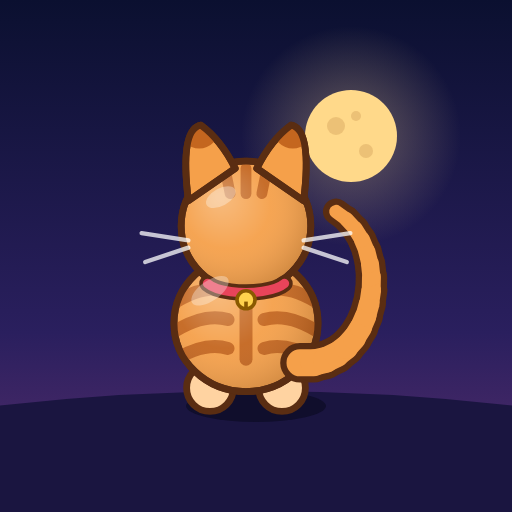
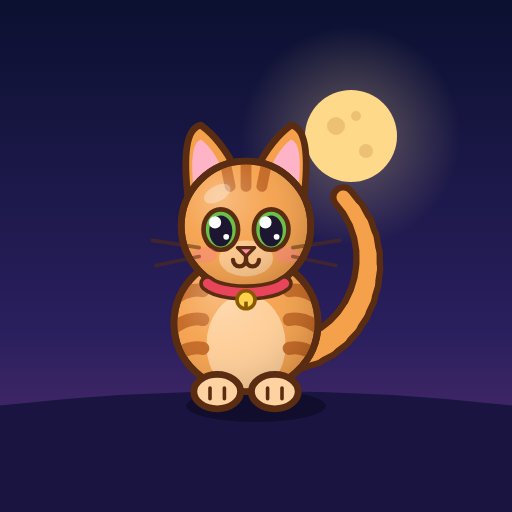
Chats de face dans les menus, queue depuis le milieu, pots plus petits
- Nouveau dessin du chat de face (accueil, portrait, boutique, album,
  image à partager, icône) : grands yeux qui clignent, oreilles roses,
  nez, bouche en « w », joues, ventre clair, pattes avant ; queue derrière
  le corps qui part du milieu. En course, le chat reste de dos.
- Déguisements adaptés à la vue de face (capes derrière le chat, col de
  marin seulement de dos)
- En course, la queue part du milieu du bas du dos
- Pots de fleurs un peu plus petits

Claude-Session: https://claude.ai/code/session_01JdYRHE65jz55i9QTGZhUWS

Changed region(s): [[0.2812, 0.25, 0.7812, 0.8125]]

diff --git a/index.html b/index.html
@@ -2320,7 +2320,7 @@
       if (o.type === 'chimney' && cat.y < 145) return die('chimney');
       if (o.type === 'linge' && cat.y + h > 44 && cat.y < 150) return die('linge');
       if (o.type === 'clim' && cat.y < 66) return die('clim');
-      if (o.type === 'pot' && cat.y < 38) return die('pot');
+      if (o.type === 'pot' && cat.y < 33) return die('pot');
       if (o.type === 'trou' && cat.y < 3 && o.z < -10 && o.z + o.d > 10) return die('trou');
       if (o.type === 'lucarne') {
         const a = lucarneOpen(o);
@@ -2639,7 +2639,7 @@
     // A potted plant sliding toward the cat, rocking from side to side
     ctx.save();
     ctx.translate(g.x, g.y);
-    ctx.scale(s, s);
+    ctx.scale(s * 0.85, s * 0.85);
     ctx.rotate(o.roll ? Math.sin(time * 10 + o.seed) * 0.16 : 0);
     ctx.lineJoin = 'round'; ctx.lineCap = 'round';
     // Stems and leaves
@@ -2927,6 +2927,20 @@
     c.closePath();
   }
 
+  // Tapered tail along a cubic curve P, with a light tip
+  function drawTail(c, sk, P) {
+    const at = u => { const v = 1 - u; return [0, 1].map(k => v * v * v * P[0][k] + 3 * v * v * u * P[1][k] + 3 * v * u * u * P[2][k] + u * u * u * P[3][k]); };
+    const pts = []; for (let i = 0; i <= 16; i++) pts.push(at(i / 16));
+    const pass = (extra, colorAt) => {
+      for (let i = 0; i < 16; i++) {
+        c.strokeStyle = colorAt(i / 16); c.lineWidth = 7.5 - 4 * (i / 16) + extra;
+        c.beginPath(); c.moveTo(pts[i][0], pts[i][1]); c.lineTo(pts[i + 1][0], pts[i + 1][1]); c.stroke();
+      }
+    };
+    pass(3.5, () => sk.outline);
+    pass(0, u => (u > 0.78 ? sk.tailTip || sk.tail || sk.fur : sk.tail || sk.fur));
+  }
+
   // o: { ph: run phase, air, still, t: time, wet, hat }
   function drawCatRun(c, sk, o) {
     const ph = o.ph, air = o.air;
@@ -2980,21 +2994,12 @@
     shadeShape(c, sk, body, by, 20);
     if (cos) drawCostume(c, cos, 'body', { by, hy: -50 - bob, bob, t: o.t, air });
 
-    // Tail: it leaves from the side of the hip, sweeps out and curls back
-    // like a question mark, getting thinner toward the tip
+    // Tail: it leaves from the middle of the lower back, sweeps out to the side
+    // and curls back like a question mark, getting thinner toward the tip
     const sway = Math.sin(o.t * 6) * 5;
-    const tipX = 25 + sway, tipY = (air ? -60 : -54) - bob;
-    const P = [[15, -12 - bob], [36, -10 - bob], [42 + sway * 0.5, -44 - bob], [tipX, tipY]];
-    const at = u => { const v = 1 - u; return [0, 1].map(k => v * v * v * P[0][k] + 3 * v * v * u * P[1][k] + 3 * v * u * u * P[2][k] + u * u * u * P[3][k]); };
-    const pts = []; for (let i = 0; i <= 16; i++) pts.push(at(i / 16));
-    const tailPass = (extra, colorAt) => {
-      for (let i = 0; i < 16; i++) {
-        c.strokeStyle = colorAt(i / 16); c.lineWidth = 7.5 - 4 * (i / 16) + extra;
-        c.beginPath(); c.moveTo(pts[i][0], pts[i][1]); c.lineTo(pts[i + 1][0], pts[i + 1][1]); c.stroke();
-      }
-    };
-    tailPass(3.5, () => sk.outline);
-    tailPass(0, u => (u > 0.78 ? sk.tailTip || sk.tail || sk.fur : sk.tail || sk.fur));
+    const tipX = 27 + sway, tipY = (air ? -60 : -54) - bob;
+    const P = [[0, -9 - bob], [26, -2 - bob], [44 + sway * 0.5, -36 - bob], [tipX, tipY]];
+    drawTail(c, sk, P);
     if (cos) drawCostume(c, cos, 'tail', { by, hy: -50 - bob, bob, t: o.t, air, tipX, tipY });
 
     const hy = -50 - bob;
@@ -3062,6 +3067,142 @@
         c.beginPath(); c.ellipse(dx, -30 + dy, 1.8, 3, 0, 0, TAU); c.fill();
       }
     }
+  }
+
+  // ---------- The cat seen from the front, for the menus ----------
+  // Same frame as drawCatRun: feet at y = 0, body around y = -23, head around y = -50.
+  const EYES = { noir: '#e8c23a', tuxedo: '#e8c23a', siamois: '#4a8ae0', blanc: '#4a8ae0', chartreux: '#e8902a', nuit: '#ffd34d', arcenciel: '#b06aff' };
+  function drawCatFront(c, sk, o) {
+    const t = o.t || 0;
+    c.lineJoin = 'round';
+    c.lineCap = 'round';
+    const cos = o.costume && o.costume !== 'none' ? o.costume : null;
+    const by = -23, hy = -50;
+    if (cos) drawCostume(c, cos, 'back', { by, hy, bob: 0, t, air: false, front: true });
+
+    // Tail behind the body, from the middle, curling up on the side
+    const sway = Math.sin(t * 2.4) * 4;
+    const tipX = 27 + sway, tipY = -58;
+    drawTail(c, sk, [[0, -16], [28, -6], [44 + sway * 0.5, -40], [tipX, tipY]]);
+    if (cos) drawCostume(c, cos, 'tail', { by, hy, bob: 0, t, air: false, front: true, tipX, tipY });
+
+    // Body with a light belly
+    const body = () => { c.beginPath(); c.ellipse(0, by, 20, 19, 0, 0, TAU); };
+    furShape(c, sk, body, sk.fur, sk.patches);
+    c.save(); body(); c.clip();
+    c.fillStyle = sk.paw; c.globalAlpha = 0.85;
+    c.beginPath(); c.ellipse(0, by + 6, 11, 14, 0, 0, TAU); c.fill();
+    c.globalAlpha = 1;
+    if (sk.stripe) {
+      c.lineWidth = 3.6;
+      [-32, -24, -16].forEach((y, i) => {
+        c.strokeStyle = stripeColor(sk, i);
+        for (const sd of [-1, 1]) { c.beginPath(); c.moveTo(sd * 21, y + 3); c.quadraticCurveTo(sd * 16, y - 1, sd * 12, y); c.stroke(); }
+      });
+    }
+    if (sk.shimmer) {
+      const sx = ((t * 45) % 90) - 45;
+      c.fillStyle = 'rgba(255, 255, 255, 0.5)';
+      c.beginPath(); c.moveTo(sx - 2, -46); c.lineTo(sx + 6, -46); c.lineTo(sx - 6, -2); c.lineTo(sx - 14, -2); c.closePath(); c.fill();
+    }
+    if (sk.sparkles) {
+      [[-10, -29], [9, -18], [4, -35], [-5, -13], [12, -30]].forEach(([x, y], i) => {
+        c.globalAlpha = 0.35 + 0.65 * Math.max(0, Math.sin(t * 3 + i * 1.7));
+        drawStar(c, x, y, 2.6, '#fff6c8');
+      });
+      c.globalAlpha = 1;
+    }
+    c.restore();
+    shadeShape(c, sk, body, by, 20);
+
+    // Front paws with little toes
+    for (const sd of [-1, 1]) {
+      c.beginPath(); c.ellipse(sd * 8, -4, 6.5, 4.8, 0, 0, TAU); strokeFill(c, sk, sk.paw);
+      c.strokeStyle = sk.outline; c.lineWidth = 1;
+      for (const dx of [-2, 2]) { c.beginPath(); c.moveTo(sd * 8 + dx, -2); c.lineTo(sd * 8 + dx, -5); c.stroke(); }
+    }
+    if (cos) drawCostume(c, cos, 'body', { by, hy, bob: 0, t, air: false, front: true });
+
+    // Ears, pink inside
+    for (const sd of [-1, 1]) {
+      roundEar(c, sd, hy);
+      strokeFill(c, sk, sk.ear || sk.fur);
+      c.beginPath();
+      c.moveTo(sd * 14.5, hy - 10); c.quadraticCurveTo(sd * 16, hy - 23, sd * 12.5, hy - 24); c.quadraticCurveTo(sd * 8.5, hy - 21, sd * 6, hy - 14); c.closePath();
+      c.fillStyle = '#ffb3c6'; c.fill();
+    }
+
+    // Head
+    const head = () => { c.beginPath(); c.arc(0, hy, 18, 0, TAU); };
+    furShape(c, sk, head, sk.head || sk.fur, sk.headPatches && sk.headPatches.map(([x, y, rx, ry, col]) => [x, hy + y, rx, ry, col]));
+    c.save(); head(); c.clip();
+    if (sk.stripe) {
+      c.lineWidth = 3;
+      [-5.5, 0, 5.5].forEach((sx, i) => {
+        c.strokeStyle = stripeColor(sk, i + 2);
+        c.beginPath(); c.moveTo(sx, hy - 18 + Math.abs(sx) * 0.3); c.lineTo(sx * 0.8, hy - 11); c.stroke();
+      });
+    }
+    // Siamese cats have a dark mask
+    if (sk.id === 'siamois') { c.fillStyle = sk.ear; c.globalAlpha = 0.85; c.beginPath(); c.ellipse(0, hy + 7, 10, 8, 0, 0, TAU); c.fill(); c.globalAlpha = 1; }
+    // Light muzzle
+    c.fillStyle = sk.id === 'siamois' ? 'rgba(255, 255, 255, 0.12)' : sk.paw;
+    c.globalAlpha = 0.7;
+    c.beginPath(); c.ellipse(0, hy + 9, 7.5, 5, 0, 0, TAU); c.fill();
+    c.globalAlpha = 1;
+    c.restore();
+    shadeShape(c, sk, head, hy, 18);
+
+    // Big round eyes that blink now and then
+    const blink = t !== 0 && (t + 0.4) % 3.6 < 0.14;
+    const eye = EYES[sk.id] || '#6cc04a';
+    for (const sd of [-1, 1]) {
+      const ex = sd * 7, ey = hy + 1;
+      if (blink) {
+        c.strokeStyle = sk.outline; c.lineWidth = 1.8;
+        c.beginPath(); c.arc(ex, ey - 1, 4.2, 0.15 * Math.PI, 0.85 * Math.PI); c.stroke();
+        continue;
+      }
+      c.beginPath(); c.ellipse(ex, ey, 4.8, 5.6, 0, 0, TAU);
+      c.fillStyle = eye; c.fill(); c.strokeStyle = sk.outline; c.lineWidth = 1.3; c.stroke();
+      c.fillStyle = '#1d1630';
+      c.beginPath(); c.ellipse(ex, ey + 0.4, 3.2, 4.3, 0, 0, TAU); c.fill();
+      c.fillStyle = '#ffffff';
+      c.beginPath(); c.arc(ex - 1.6, ey - 2, 1.7, 0, TAU); c.fill();
+      c.beginPath(); c.arc(ex + 1.5, ey + 2, 0.8, 0, TAU); c.fill();
+    }
+    // Pink cheeks, nose and a little "w" mouth
+    c.fillStyle = 'rgba(255, 120, 150, 0.35)';
+    for (const sd of [-1, 1]) { c.beginPath(); c.ellipse(sd * 11.5, hy + 8, 3.4, 2.2, 0, 0, TAU); c.fill(); }
+    c.fillStyle = '#ff8fa8'; c.strokeStyle = sk.outline; c.lineWidth = 0.9;
+    c.beginPath(); c.moveTo(-2.4, hy + 6); c.lineTo(2.4, hy + 6); c.lineTo(0, hy + 8.4); c.closePath(); c.fill(); c.stroke();
+    c.lineWidth = 1.2;
+    c.beginPath(); c.moveTo(0, hy + 8.4); c.lineTo(0, hy + 9.4); c.stroke();
+    for (const sd of [-1, 1]) { c.beginPath(); c.arc(sd * 1.8, hy + 9.4, 1.8, 0, Math.PI); c.stroke(); }
+
+    // Whiskers
+    c.strokeStyle = sk.outline; c.globalAlpha = 0.55; c.lineWidth = 1;
+    for (const sd of [-1, 1]) {
+      c.beginPath(); c.moveTo(sd * 13, hy + 6); c.lineTo(sd * 26, hy + 4); c.stroke();
+      c.beginPath(); c.moveTo(sd * 13, hy + 8.5); c.lineTo(sd * 25, hy + 11); c.stroke();
+    }
+    c.globalAlpha = 1;
+
+    // Collar with the bell in front
+    const col = sk.collar || '#e8445a';
+    c.strokeStyle = sk.outline; c.lineWidth = 4.6;
+    c.beginPath(); c.ellipse(0, hy + 14.5, 11.5, 4, 0, 0.12 * Math.PI, 0.88 * Math.PI); c.stroke();
+    c.strokeStyle = col; c.lineWidth = 2.6;
+    c.beginPath(); c.ellipse(0, hy + 14.5, 11.5, 4, 0, 0.12 * Math.PI, 0.88 * Math.PI); c.stroke();
+    c.fillStyle = '#ffd34d'; c.strokeStyle = '#8a5a00'; c.lineWidth = 1;
+    c.beginPath(); c.arc(0, hy + 20.5, 2.5, 0, TAU); c.fill(); c.stroke();
+    c.fillStyle = '#8a5a00'; c.fillRect(-0.5, hy + 21, 1, 1.6);
+
+    c.fillStyle = 'rgba(255, 255, 255, 0.32)';
+    c.beginPath(); c.ellipse(-8, hy - 9, 4, 2.2, -0.5, 0, TAU); c.fill();
+
+    if (cos) drawCostume(c, cos, 'head', { by, hy, bob: 0, t, air: false, front: true });
+    if (o.hat) { c.save(); c.translate(0, hy - 8); drawHat(c, o.hat, t); c.restore(); }
   }
 
   function drawCatBall(c, sk, o) {
@@ -3829,7 +3970,7 @@
       const owns = isFish ? (it.id === 'none' || gold.costumes.includes(it.id)) : SHOP[shopTab].owned().includes(it.id);
       const sk = isCat ? it : currentSkin();
       c.save(); c.setTransform(dpr, 0, 0, dpr, 0, 0); drawAura(c, 38, 44, 38, sk); c.restore();
-      drawCatRun(c, skinPaint(sk, time), { ph: owns ? time * 9 : 0, air: false, still: !owns, t: time, wet: false,
+      drawCatFront(c, skinPaint(sk, time), { still: !owns, t: owns ? time : 0,
         hat: isCat || isFish ? hatId : it.id, costume: isFish ? it.id : currentCostume() });
     }
   }
@@ -4727,7 +4868,7 @@
     ctx.translate(x, y);
     // Gentle breathing
     ctx.scale(k, k * (1 + Math.sin(time * 2.2) * 0.012));
-    drawCatRun(ctx, skinPaint(sk, time), { ph: 0, air: false, still: true, t: time, wet: false, hat: hatId, costume: currentCostume() });
+    drawCatFront(ctx, skinPaint(sk, time), { t: time, hat: hatId, costume: currentCostume() });
     ctx.restore();
     drawHomeAvatar();
   }
@@ -4743,7 +4884,7 @@
     c.clearRect(0, 0, cv.width, cv.height);
     c.translate(cv.width / 2, cv.height + 40);
     c.scale(1.9, 1.9);
-    drawCatRun(c, skinPaint(currentSkin(), time), { ph: 0, air: false, still: true, t: 0, wet: false, hat: hatId });
+    drawCatFront(c, skinPaint(currentSkin(), time), { t: 0, hat: hatId });
   }
 
   // ---------- Profile: cat name, player level, record per cat, story ----------
@@ -4901,11 +5042,11 @@
     c.clearRect(0, 0, 76, 76);
     if (kind === 'costume') {
       c.translate(38, 71); c.scale(0.62, 0.62);
-      drawCatRun(c, SKINS[0], { ph: 0, air: false, still: true, t: 0, wet: false, costume: it.id });
+      drawCatFront(c, SKINS[0], { t: 0, costume: it.id });
     } else if (kind === 'cat') {
       if (has) drawAura(c, 38, 44, 38, it);
       c.translate(38, 71); c.scale(0.7, 0.7);
-      drawCatRun(c, skinPaint(it, 0), { ph: 0, air: false, still: true, t: 0, wet: false });
+      drawCatFront(c, skinPaint(it, 0), { t: 0 });
     } else {
       c.translate(38, 54); c.scale(1.5, 1.5);
       drawHat(c, it.id, 0);
@@ -5198,7 +5339,7 @@
     c.beginPath(); c.ellipse(540, 1250, 120, 30, 0, 0, TAU); c.fill();
     drawAura(c, 540, 1100, 300, currentSkin());
     c.translate(540, 1250); c.scale(4.4, 4.4);
-    drawCatRun(c, skinPaint(currentSkin(), time), { ph: 0, air: false, still: true, t: time, wet: false, hat: hatId, costume: currentCostume() });
+    drawCatFront(c, skinPaint(currentSkin(), time), { t: 0, hat: hatId, costume: currentCostume() });
     c.restore();
     // Text panel
     c.fillStyle = 'rgba(10, 14, 40, 0.72)';
@@ -5546,7 +5687,7 @@
   }
   const COSTUME_DRAW = {
     vampire(c, layer, g) {
-      if (layer !== 'body') return;
+      if (layer !== (g.front ? 'back' : 'body')) return;
       const sw = Math.sin(g.t * 8) * 2;
       c.beginPath();
       c.moveTo(-12, g.hy + 15); c.quadraticCurveTo(-25, g.by - 6, -26, g.by + 18 + sw);
@@ -5559,7 +5700,7 @@
       }
     },
     superchat(c, layer, g) {
-      if (layer !== 'body') return;
+      if (layer !== (g.front ? 'back' : 'body')) return;
       const sw = Math.sin(g.t * 7) * 4;
       c.beginPath();
       c.moveTo(-12, g.hy + 15); c.quadraticCurveTo(-26, g.by, -24 + sw * 0.3, g.by + 22);
@@ -5749,10 +5890,12 @@
       c.fillStyle = '#2f5fd0';
       for (let y = -6; y < 22; y += 6) c.fillRect(-22, g.by + y, 44, 2.6);
       c.restore();
-      c.beginPath(); c.moveTo(-13, g.hy + 14); c.lineTo(13, g.hy + 14); c.lineTo(14, g.by + 1); c.lineTo(-14, g.by + 1); c.closePath();
-      cosShape(c, '#1f3f9a', '#0b1a4a');
-      c.strokeStyle = '#ffffff'; c.lineWidth = 1.2;
-      c.beginPath(); c.rect(-10.5, g.hy + 16, 21, g.by - g.hy - 18); c.stroke();
+      if (!g.front) {
+        c.beginPath(); c.moveTo(-13, g.hy + 14); c.lineTo(13, g.hy + 14); c.lineTo(14, g.by + 1); c.lineTo(-14, g.by + 1); c.closePath();
+        cosShape(c, '#1f3f9a', '#0b1a4a');
+        c.strokeStyle = '#ffffff'; c.lineWidth = 1.2;
+        c.beginPath(); c.rect(-10.5, g.hy + 16, 21, g.by - g.hy - 18); c.stroke();
+      }
       const sw = Math.sin(g.t * 6) * 1.5;
       for (const sd of [-1, 1]) {
         c.beginPath(); c.moveTo(sd * 2, g.hy + 15); c.lineTo(sd * 5 + sw, g.hy + 27); c.lineTo(sd * 8 + sw, g.hy + 25); c.closePath();
